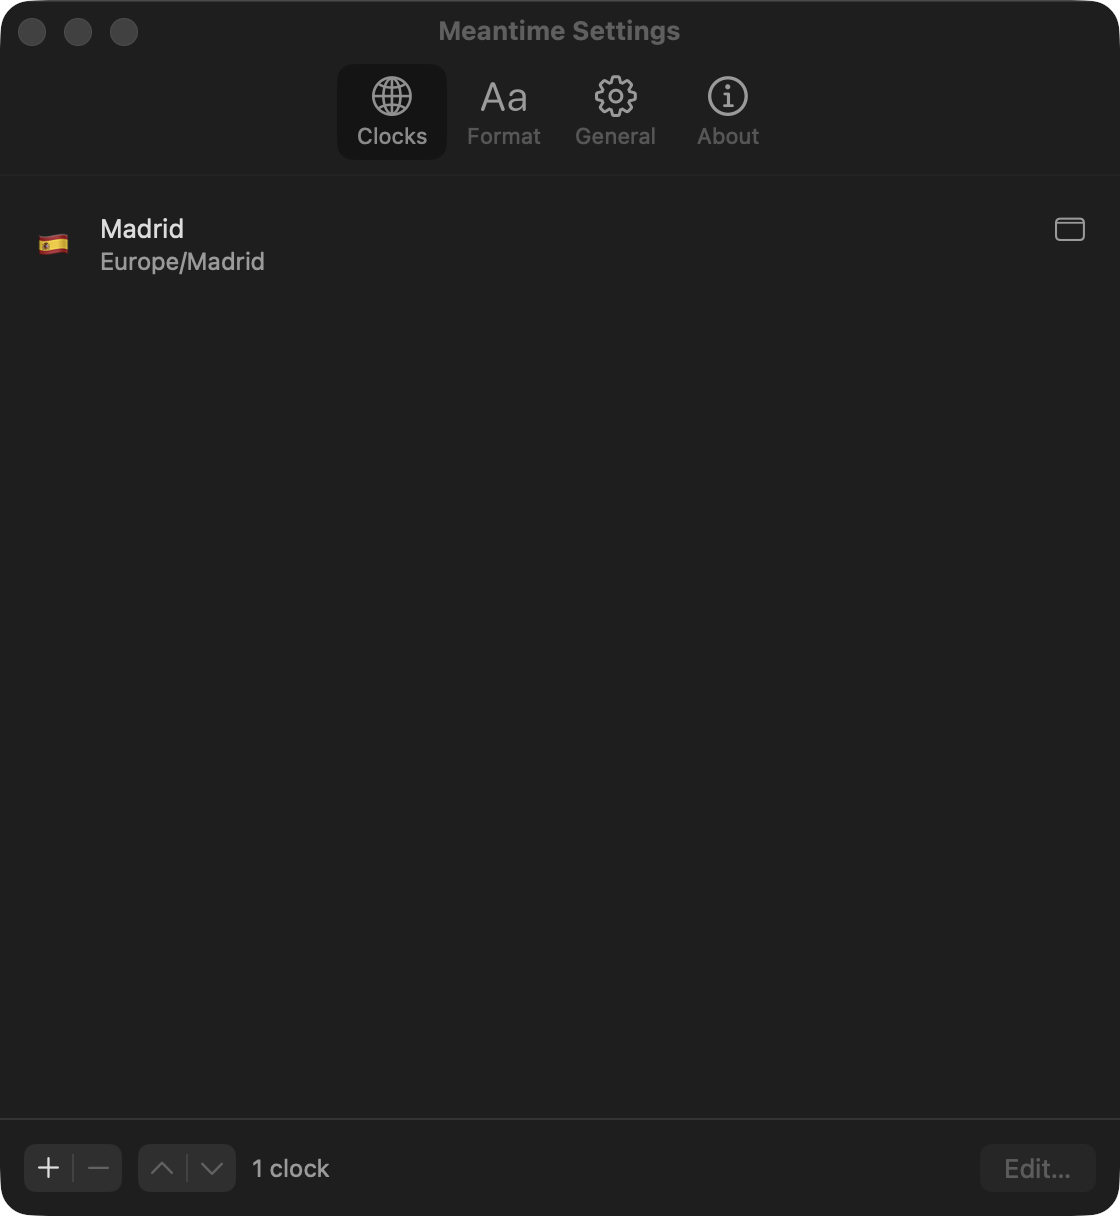
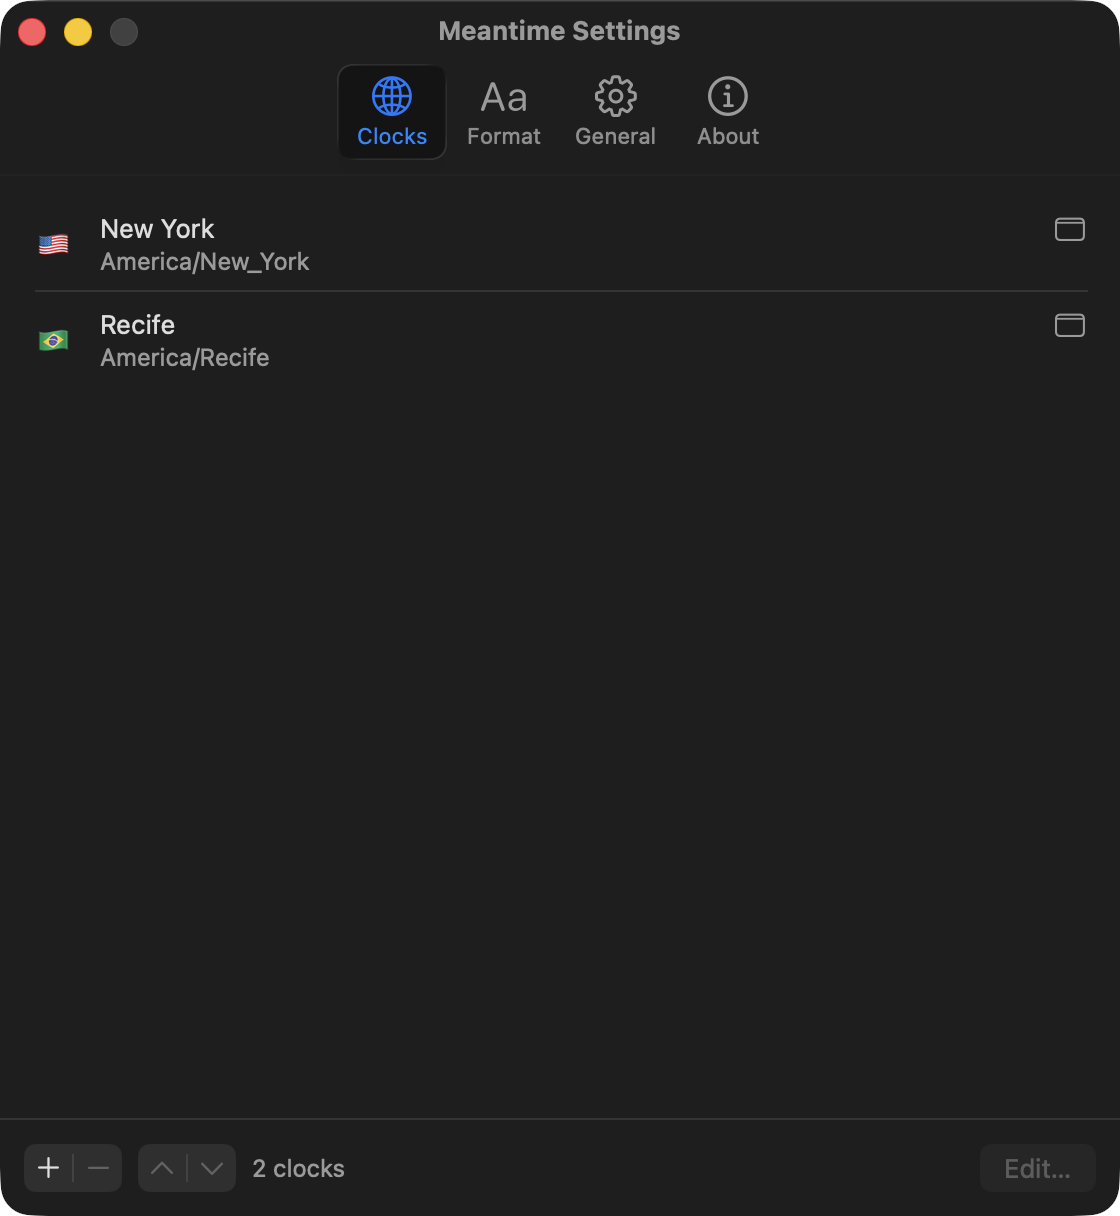
chore(repo): refresh Retina screenshots and enable Dependabot
What changed
- recapture every public screenshot from the current native UI at Retina resolution
- add deterministic debug-only screenshot routes and preserve prior captures on future runs
- configure weekly Swift and GitHub Actions Dependabot updates with repository invariants

Why it changed
- keep public imagery synchronized with the shipped interface and ensure dependency updates arrive as reviewable pull requests

Important implementation details
- no runtime dependency, timer, observer, or production behavior changed
- all previous and intermediate screenshot evidence remains retained under artifacts

diff --git a/Sources/Meantime/App/AppDelegate.swift b/Sources/Meantime/App/AppDelegate.swift
@@ -35,7 +35,11 @@ final class AppDelegate: NSObject, NSApplicationDelegate {
                                     timeSource: timeSource, formatter: formatter, actions: actions)
 #if DEBUG
         if CommandLine.arguments.contains("--ui-validation-settings") {
-            showSettings()
+            showSettings(pane: .clocks)
+        } else if CommandLine.arguments.contains("--ui-validation-format") {
+            showSettings(pane: .format)
+        } else if CommandLine.arguments.contains("--ui-validation-general") {
+            showSettings(pane: .general)
         } else if CommandLine.arguments.contains("--ui-validation-panel") {
             showValidationPanel()
         }
@@ -172,7 +176,13 @@ final class AppDelegate: NSObject, NSApplicationDelegate {
 
 #if DEBUG
     private func prepareValidationData() {
-        if CommandLine.arguments.contains("--ui-validation-many-clocks") {
+        if CommandLine.arguments.contains("--ui-validation-screenshot-data") {
+            preferences.clocks = [
+                WorldClock(timeZoneID: "America/New_York", customLabel: "New York"),
+                WorldClock(timeZoneID: "America/Recife", customLabel: "Recife"),
+            ]
+            preferences.menuBarLayout = .individual
+        } else if CommandLine.arguments.contains("--ui-validation-many-clocks") {
             let identifiers = Array(TimeZone.knownTimeZoneIdentifiers.prefix(50))
             preferences.clocks = identifiers.enumerated().map { index, identifier in
                 WorldClock(timeZoneID: identifier, customLabel: "Clock \(index + 1)")

diff --git a/docs/index.html b/docs/index.html
@@ -43,7 +43,7 @@
         <a class="button secondary" href="https://github.com/martonpaulo/meantime">View on GitHub</a>
       </div>
       <p class="compatibility">Open source · Direct download · macOS 26 or later</p>
-      <img class="hero-shot" src="screenshots/panel-current.png?v=1.2.0-final" alt="The Meantime panel showing world clocks, a month calendar, and time travel" width="340">
+      <img class="hero-shot" src="screenshots/panel-current.png?v=1.2.0-retina" alt="The Meantime panel showing world clocks, a month calendar, and time travel" width="340">
     </section>
 
     <section class="section" id="features" aria-labelledby="features-title">
@@ -64,7 +64,7 @@
       <h2 id="settings-title">Settings that feel like the system.</h2>
       <p>Toolbar panes, grouped forms, live previews with explicit Save. Add clocks from a searchable catalog, reorder or remove them, label them, and choose a flag, emoji, text, or no leading item.</p>
       <p>No accounts, no sync, no telemetry — the only network request is the update check against this repository.</p>
-      <img class="settings-shot" src="screenshots/settings-current.png?v=1.2.0-final"
+      <img class="settings-shot" src="screenshots/settings-current.png?v=1.2.0-retina"
            alt="Meantime Settings showing a native selectable list of clocks with add, remove, reorder, and edit controls"
            width="560">
     </section>

diff --git a/README.md b/README.md
@@ -11,7 +11,7 @@
 [![macOS 26+](https://img.shields.io/badge/macOS-26%2B-blue)](#install)
 [![MIT](https://img.shields.io/badge/license-MIT-green)](LICENSE)
 
-<img src="docs/screenshots/menu-bar.png" alt="Two world clocks in the macOS menu bar" width="260">
+<img src="docs/screenshots/menu-bar.png" alt="Two world clocks in the macOS menu bar" width="222">
 
 <img src="docs/screenshots/panel-current.png" alt="The Meantime panel: clocks, month calendar, and time travel" width="340">
 
